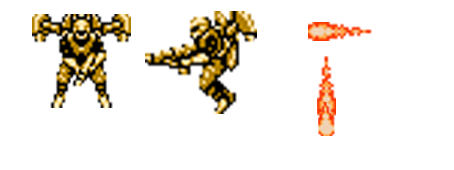
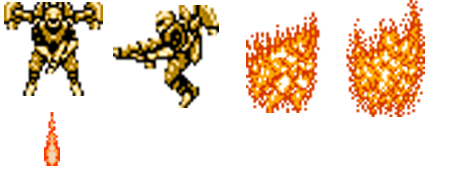
MiniBoss y shooters enemies añadidos en la stage1

diff --git a/game.js b/game.js
@@ -87,7 +87,7 @@ window.addEventListener("load",function() {
           this.on("punchFinishedTrigger");
           this.on("allowToTakeDamageTrigger")
           this.on("enemy.hit", "hit");
-          this.on("bump.top","bumpTop"); 
+          //this.on("bump.top","bumpTop"); 
           this.on("stage1completed","gotoStage2"); 
 
           //Implementar las colisiones y los disparos.
@@ -455,6 +455,7 @@ window.addEventListener("load",function() {
     	  this.entity.on("bump.top",this,"killPlayer");
     	  this.entity.on("bump.left", this, "killPlayer");
     	  this.entity.on("bump.right", this, "killPlayer");
+        this.entity.on("bump.bottom", this, "killPlayer");
     	  this.entity.on("hit.sprite",this,"die");
         },
 
@@ -478,7 +479,7 @@ window.addEventListener("load",function() {
     Q.Sprite.extend("Goomba",{
       init: function(p) {
         this._super(p, { sheet: 'goomba', vx: -100, rangeX: 200,
-          gravity: 0});
+          gravity: 0, type: Q.ENEMY});
         this.p.initialX = this.p.x;
         this.add('defaultEnemy');
         this.play('walkLeft');
@@ -516,7 +517,7 @@ window.addEventListener("load",function() {
             this.play('walkLeft');
           }
 
-        },
+        }
   });
 
 
@@ -524,7 +525,7 @@ window.addEventListener("load",function() {
     Q.Sprite.extend("Bloopa",{
       init: function(p) {
         this._super(p, { sheet: 'bloopa', vy: -140, rangeY: 90,
-          gravity: 0, jumpSpeed: -230});
+          gravity: 0, jumpSpeed: -230, type: Q.ENEMY});
         this.p.initialY = this.p.y;
         this.add('defaultEnemy');
         this.play('jump');
@@ -555,6 +556,76 @@ window.addEventListener("load",function() {
         }
     });
 
+    /*Goomba2*/
+    Q.Sprite.extend("Goomba2",{
+      init: function(p) {
+        this._super(p, { sheet: 'goomba2', vx: -225, vy: 30, rangeX: 200, rangeY: 90,
+          gravity: 0, type: Q.ENEMY});
+        this.p.initialX = this.p.x;
+        this.p.initialY = this.p.y;
+        this.add('defaultEnemy');
+        this.play('front');
+
+      },
+
+      step: function(dt) {
+        if(this.p.dead) {
+          this.del('2d, aiBounce');
+          this.p.deadTimer++;
+          if (this.p.deadTimer > 6) { //menos tiempo porque si no puedes saltar 2 veces sobre el cadaver
+            this.destroy();
+          }
+            return;
+          }
+          //this.p.vy = 0;
+          if(this.p.vx == 0){
+            this.p.vx = -150;
+          }
+          if(this.p.x >= this.p.initialX) { 
+            this.stage.insert(new Q.Fire({x: this.p.x - 20, y: this.p.y + 100})); 
+            this.p.x = this.p.initialX;
+            this.p.vx = -this.p.vx;
+          } 
+          else if(this.p.x + this.p.rangeX < this.p.initialX) { 
+            this.stage.insert(new Q.Fire({x: this.p.x - 20, y: this.p.y + 100}));
+            this.p.x = this.p.initialX - this.p.rangeX;
+            this.p.vx = -this.p.vx;
+          }
+
+          if(this.p.vy == 0){
+            this.p.vy = 30;
+          }
+          if(this.p.y >= this.p.initialY) { 
+            this.p.y = this.p.initialY;
+            this.p.vy = -this.p.vy;
+          } 
+          else if(this.p.y + this.p.rangeY < this.p.initialY) { 
+            this.p.y = this.p.initialY - this.p.rangeY;
+            this.p.vy = -this.p.vy;
+          }
+
+        }
+             
+    });
+
+
+    Q.Sprite.extend("Fire", {  
+       init: function(p) {
+          this._super(p, {
+            vx: 0,
+            sprite: 'goomba2', 
+            sheet: 'goomba2',
+            vy:-10,
+            gravity: 0.5,
+            type: Q.ENEMY
+            });
+
+            this.add('2d, aiBounce, animation, toca');
+            this.add('defaultEnemy');
+            this.play("fire");
+       }
+      });
+
 
     /*Meta barra-princesa*/
     Q.Sprite.extend("Goal", {
@@ -575,6 +646,7 @@ window.addEventListener("load",function() {
         }
       },
     });
+
      /*****************************************************************Objetos Stage 2*************************************************************************************/
 
       Q.component('defCuch', {
@@ -628,11 +700,11 @@ window.addEventListener("load",function() {
         this._super(p, { sheet: 'shot',gravity:0.5,x:252,y:114, cont:0});
         this.add("2d,aiBounce");
         this.on("bump.top",this,"MarioWins");
-      this.on("bump.left",this,"MarioWins");
-      this.on("bump.right",this,"MarioWins");
-      this.on("bump.bottom",this,"MarioWins");
+        this.on("bump.left",this,"MarioWins");
+        this.on("bump.right",this,"MarioWins");
+        this.on("bump.bottom",this,"MarioWins");
       },
-        MarioWins: function(col){
+      MarioWins: function(col){
       if(col.obj.isA("Batman")) {
           Q.stageScene("mainMenu");
         }
@@ -869,11 +941,12 @@ window.addEventListener("load",function() {
 
 
    Q.loadTMX("music_joker.mp3, level3.tmx, joker.png, joker.json,level1.tmx,level2.tmx, mario_small.json, mario_small.png, goomba.json, goomba.png," +  
-    "bloopa.json, bloopa.png,acc1.png,acc1.json,cuchillas.png,buttEle.json,buttEle.png, cuchillas.json,cuchillas2.png,cuchillas2.json,cuchillas3.png,cuchillas3.json,cintaSup.png,cintaSup.json,ia.png,ia.json,ia2.png,ia.json,barraElect.png,barraElect.json," +  
+    "bloopa.json, bloopa.png, goomba2.json, goomba2.png, acc1.png,acc1.json,cuchillas.png,buttEle.json,buttEle.png, cuchillas.json,cuchillas2.png,cuchillas2.json,cuchillas3.png,cuchillas3.json,cintaSup.png,cintaSup.json,ia.png,ia.json,ia2.png,ia.json,barraElect.png,barraElect.json," +  
     "cintainferior.png, cintainferior.json, princess.png, mainTitle.png, tiles.json, tiles.png," +  
     "coin.json, coin.png, batman.png, batman.json, batman_death.mp3, batman_hit.mp3, batman_punch.mp3, batman_jump.mp3",  function() {
         Q.compileSheets("mario_small.png","mario_small.json");
         Q.compileSheets("goomba.png","goomba.json");
+        Q.compileSheets("goomba2.png","goomba2.json");
         Q.compileSheets("bloopa.png","bloopa.json");
         Q.compileSheets("tiles.png","tiles.json");
         Q.compileSheets("batman.png", "batman.json")
@@ -889,23 +962,7 @@ window.addEventListener("load",function() {
         Q.compileSheets("acc1.png","acc1.json");
         Q.sheet("Joker","joker.png");
         Q.compileSheets("joker.png","joker.json");
-         Q.compileSheets("buttEle.png","buttEle.json");
-        /* no animations
-        Q.sheet("mario_small","mario_small.png", { tilew: 32, tileh: 32 });
-        Q.sheet("goomba","goomba.png", { tilew: 32, tileh: 32 });
-        Q.sheet("bloopa","bloopa.png", { tilew: 32, tileh: 32 });
-        Q.sheet("princess","princess.png", { tilew: 32, tileh: 32 });
-        */
-
-        Q.animations("mario", {
-          run_right: { frames: [1,2], rate: 1/5, flip: false, loop: true },
-          run_left: { frames:  [1,2], rate: 1/5, flip: "x", loop: true },
-          stand_right: { frames:[0], rate: 1/5, flip: false },
-          stand_left: { frames: [0], rate: 1/5, flip: "x" }, 
-          jump_right: { frames: [4], rate: 1/5, flip: false },
-          jump_left: { frames:  [4], rate: 1/5, flip: "x" },
-          die: { frames:  [12], rate: 1/5, flip: false, loop: true }
-          });
+        Q.compileSheets("buttEle.png","buttEle.json");
 
         Q.animations("coin", {
           shiny: { frames: [0,1,2], rate: 1/5, flip: 'x', loop: true }
@@ -922,6 +979,13 @@ window.addEventListener("load",function() {
         Q.animations("bloopa", {
           jump: { frames: [0,1], rate: 1/2, loop: true },
           dead: { frames: [2], rate: 1/8 }
+        });
+        Q.animations("goomba2", {
+          front: { frames: [0], rate: 1/8,},
+          flyLeft: { frames: [1], rate: 1/8 },
+          flyRight: { frames: [1], rate: 1/8, flip: "x"},
+          dead: { frames: [2,3], rate: 1/2,loop: true},
+          fire:{ frames: [4], rate: 1/2, loop: false}
         });
         
         Q.stageScene("mainMenu");
